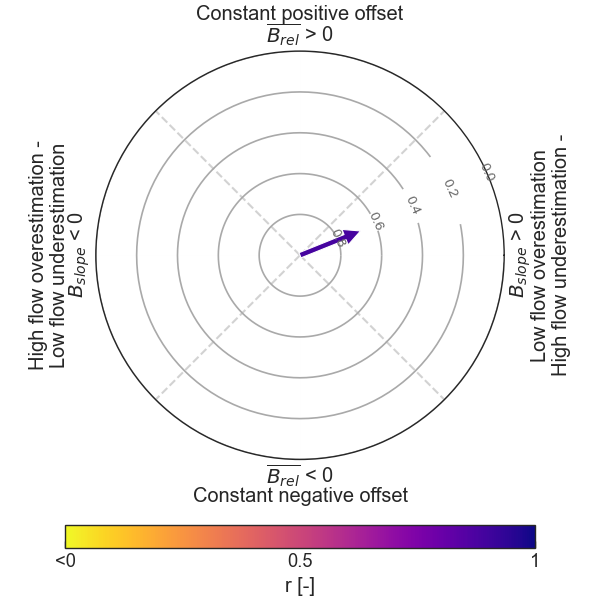
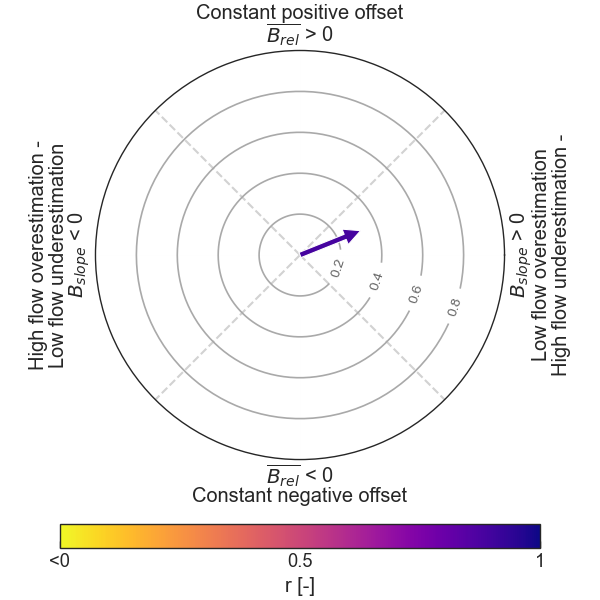
modified docs.

diff --git a/de/de.py b/de/de.py
@@ -3,25 +3,26 @@
 """
 de.de
 ~~~~~~~~~~~
-Diagnosing model performance using an efficiency measure based on flow
+Diagnosing model errors using an efficiency measure based on flow
 duration curve and temporal correlation. The efficiency measure can be
 visualized by diagnostic polar plots which facilitates decomposing potential
 error contributions (dynamic errors vs. constant erros vs. timing errors)
-:2019 by Robin Schwemmle.
+:2021 by Robin Schwemmle.
 :license: GNU GPLv3, see LICENSE for more details.
 """
 
 import numpy as np
-
-# RunTimeWarning will not be displayed (division by zeros or NaN values)
-np.seterr(divide="ignore", invalid="ignore")
 import matplotlib
 from matplotlib import cm
 import matplotlib.pyplot as plt
+import matplotlib.ticker as mticker
 import pandas as pd
 import scipy as sp
 import scipy.integrate as integrate
 import seaborn as sns
+
+# RunTimeWarning will not be displayed (division by zeros or NaN values)
+np.seterr(divide="ignore", invalid="ignore")
 
 # controlling figure aesthetics
 sns.set_style("ticks", {"xtick.major.size": 8, "ytick.major.size": 8})
@@ -349,7 +350,7 @@ def calc_de(obs, sim, sort=True):
     Returns
     ----------
     eff : float
-        non-normalized Diagnostic efficiency
+        Diagnostic efficiency
 
     Notes
     ----------
@@ -538,24 +539,24 @@ def diag_polar_plot(obs, sim, sort=True, l=0.05, extended=False):
         # diagnose the error
         if abs(brel_mean) <= l and exp_err > l and eff > eff_l:
             ax.annotate(
-                "", xytext=(0, 1), xy=(phi, eff), arrowprops=dict(facecolor=rgba_color)
+                "", xytext=(0, 0), xy=(phi, eff), arrowprops=dict(facecolor=rgba_color)
             )
         elif abs(brel_mean) > l and exp_err <= l and eff > eff_l:
             ax.annotate(
-                "", xytext=(0, 1), xy=(phi, eff), arrowprops=dict(facecolor=rgba_color)
+                "", xytext=(0, 0), xy=(phi, eff), arrowprops=dict(facecolor=rgba_color)
             )
         elif abs(brel_mean) > l and exp_err > l and eff > eff_l:
             ax.annotate(
-                "", xytext=(0, 1), xy=(phi, eff), arrowprops=dict(facecolor=rgba_color)
+                "", xytext=(0, 0), xy=(phi, eff), arrowprops=dict(facecolor=rgba_color)
             )
         # FBM
         elif abs(brel_mean) <= l and exp_err <= l and eff > eff_l:
             ax.annotate(
-                "", xytext=(0, 1), xy=(0, eff), arrowprops=dict(facecolor=rgba_color)
+                "", xytext=(0, 0), xy=(0, eff), arrowprops=dict(facecolor=rgba_color)
             )
             ax.annotate(
                 "",
-                xytext=(0, 1),
+                xytext=(0, 0),
                 xy=(np.pi, eff),
                 arrowprops=dict(facecolor=rgba_color),
             )
@@ -576,6 +577,8 @@ def diag_polar_plot(obs, sim, sort=True, l=0.05, extended=False):
             labelbottom=True,
             grid_alpha=0.01,
         )
+        ticks_loc = ax.get_xticks().tolist()
+        ax.xaxis.set_major_locator(mticker.FixedLocator(ticks_loc))
         ax.set_xticklabels(["", "", "", "", "", "", "", ""])
         ax.text(
             -0.14,
@@ -781,6 +784,8 @@ def diag_polar_plot(obs, sim, sort=True, l=0.05, extended=False):
             labelbottom=True,
             grid_alpha=0.01,
         )
+        ticks_loc = ax.get_xticks().tolist()
+        ax.xaxis.set_major_locator(mticker.FixedLocator(ticks_loc))
         ax.set_xticklabels(["", "", "", "", "", "", "", ""])
         ax.text(
             -0.14,
@@ -1102,6 +1107,8 @@ def diag_polar_plot_multi(
             labelbottom=True,
             grid_alpha=0.01,
         )
+        ticks_loc = ax.get_xticks().tolist()
+        ax.xaxis.set_major_locator(mticker.FixedLocator(ticks_loc))
         ax.set_xticklabels(["", "", "", "", "", "", "", ""])
         ax.text(
             -0.14,
@@ -1311,6 +1318,8 @@ def diag_polar_plot_multi(
             labelbottom=True,
             grid_alpha=0.01,
         )
+        ticks_loc = ax.get_xticks().tolist()
+        ax.xaxis.set_major_locator(mticker.FixedLocator(ticks_loc))
         ax.set_xticklabels(["", "", "", "", "", r"0$^{\circ}$ (360$^{\circ}$)", "", ""])
         ax.text(
             -0.14,
@@ -1621,6 +1630,8 @@ def gdiag_polar_plot(eff, comp1, comp2, comp3, l=0.05):  # pragma: no cover
         labelbottom=True,
         grid_alpha=0.01,
     )
+    ticks_loc = ax.get_xticks().tolist()
+    ax.xaxis.set_major_locator(mticker.FixedLocator(ticks_loc))
     ax.set_xticklabels(["", "", "", "", "", "", "", ""])
     ax.text(
         -0.04,
@@ -1845,6 +1856,8 @@ def gdiag_polar_plot_multi(
             labelbottom=True,
             grid_alpha=0.01,
         )
+        ticks_loc = ax.get_xticks().tolist()
+        ax.xaxis.set_major_locator(mticker.FixedLocator(ticks_loc))
         ax.set_xticklabels(["", "", "", "", "", "", "", ""])
         ax.text(
             -0.04,
@@ -1993,6 +2006,8 @@ def gdiag_polar_plot_multi(
             labelbottom=True,
             grid_alpha=0.01,
         )
+        ticks_loc = ax.get_xticks().tolist()
+        ax.xaxis.set_major_locator(mticker.FixedLocator(ticks_loc))
         ax.set_xticklabels(["", "", "", "", "", "", "", ""])
         ax.text(
             -0.04,

diff --git a/de/kge.py b/de/kge.py
@@ -4,22 +4,22 @@
 de.kge
 ~~~~~~~~~~~
 Kling-Gupta efficiency measure. The efficiency measure can be
-visualized in 2D-Plot which facilitates decomposing the metric terms (bias
+visualized in a polar plot which facilitates decomposing the metric terms (bias
 error vs. variability error vs. timing error)
-:2019 by Robin Schwemmle.
+:2021 by Robin Schwemmle.
 :license: GNU GPLv3, see LICENSE for more details.
 """
 
 import numpy as np
-
-# RunTimeWarning will not be displayed (division by zeros or NaN values)
-np.seterr(divide="ignore", invalid="ignore")
 import matplotlib
 from matplotlib import cm
 import matplotlib.pyplot as plt
-import pandas as pd
+import matplotlib.ticker as mticker
 import scipy as sp
 import seaborn as sns
+
+# RunTimeWarning will not be displayed (division by zeros or NaN values)
+np.seterr(divide="ignore", invalid="ignore")
 
 # controlling figure aesthetics
 sns.set_style("ticks", {"xtick.major.size": 8, "ytick.major.size": 8})
@@ -289,7 +289,7 @@ def calc_kge(obs, sim, r="pearson", var="std"):
     Returns
     ----------
     eff : float
-        Kling-Gupta-Efficiency measure
+        Kling-Gupta-Efficiency
 
     Examples
     --------
@@ -661,6 +661,8 @@ def polar_plot(obs, sim, r="pearson", var="std"):
             rotation_mode="anchor",
             transform=ax.transAxes,
         )
+        ticks_loc = ax.get_xticks().tolist()
+        ax.xaxis.set_major_locator(mticker.FixedLocator(ticks_loc))
         ax.set_xticklabels(["", "", "", "", "", "", "", ""])
         # add colorbar for temporal correlation
         cbar = fig.colorbar(
@@ -857,6 +859,8 @@ def polar_plot(obs, sim, r="pearson", var="std"):
             rotation_mode="anchor",
             transform=ax.transAxes,
         )
+        ticks_loc = ax.get_xticks().tolist()
+        ax.xaxis.set_major_locator(mticker.FixedLocator(ticks_loc))
         ax.set_xticklabels(["", "", "", "", "", "", "", ""])
         # add colorbar for temporal correlation
         cbar = fig.colorbar(
@@ -1099,6 +1103,8 @@ def polar_plot_multi(
             rotation_mode="anchor",
             transform=ax.transAxes,
         )
+        ticks_loc = ax.get_xticks().tolist()
+        ax.xaxis.set_major_locator(mticker.FixedLocator(ticks_loc))
         ax.set_xticklabels(["", "", "", "", "", "", "", ""])
         ax.set_rticks([])  # turn default ticks off
         ax.set_rmin(1)
@@ -1256,6 +1262,8 @@ def polar_plot_multi(
             rotation_mode="anchor",
             transform=ax.transAxes,
         )
+        ticks_loc = ax.get_xticks().tolist()
+        ax.xaxis.set_major_locator(mticker.FixedLocator(ticks_loc))
         ax.set_xticklabels(["", "", "", "", "", r"0$^{\circ}$ (360$^{\circ}$)", "", ""])
         ax.set_rticks([])  # turn default ticks off
         ax.set_rmin(1)

diff --git a/de/util.py b/de/util.py
@@ -4,7 +4,7 @@
 de.util
 ~~~~~~~~~~~
 
-:2019 by Robin Schwemmle.
+:2021 by Robin Schwemmle.
 :license: GNU GPLv3, see LICENSE for more details.
 """
 
@@ -448,14 +448,14 @@ def diag_polar_plot_multi_fc(
         elif abs(bm) <= l and exp_err <= l and eff > eff_l:
             ax.annotate(
                 "",
-                xytext=(0, 1),
+                xytext=(0, 0),
                 xy=(0, eff),
                 arrowprops=dict(edgecolor=rgba_color, facecolor="black", lw=3),
                 zorder=2,
             )
             ax.annotate(
                 "",
-                xytext=(0, 1),
+                xytext=(0, 0),
                 xy=(np.pi, eff),
                 arrowprops=dict(edgecolor=rgba_color, facecolor="black", lw=3),
                 zorder=2,

diff --git a/de/nse.py b/de/nse.py
@@ -4,7 +4,7 @@
 de.nse
 ~~~~~~~~~~~
 Nash-Sutcliffe efficiency measure.
-:2019 by Robin Schwemmle.
+:2021 by Robin Schwemmle.
 :license: GNU GPLv3, see LICENSE for more details.
 """
 
@@ -13,7 +13,6 @@ import numpy as np
 
 # RunTimeWarning will not be displayed (division by zeros or NaN values)
 np.seterr(divide="ignore", invalid="ignore")
-
 
 def calc_nse(obs, sim):
     r"""
@@ -30,7 +29,7 @@ def calc_nse(obs, sim):
     Returns
     ----------
     sig : float
-        Nash-Sutcliffe-Efficiency measure
+        Nash-Sutcliffe-Efficiency
 
     Examples
     --------

diff --git a/tests/test_de.py b/tests/test_de.py
@@ -169,7 +169,7 @@ def test_multi_diag_polar_plot():
     brel_mean = np.array([0.1, 0.15, 0.2, 0.1, 0.05, 0.15])
     b_area = np.array([0.15, 0.1, 0.2, 0.1, 0.1, 0.2])
     temp_cor = np.array([0.9, 0.85, 0.8, 0.9, 0.85, 0.9])
-    eff_de = np.array([0.79, 0.76, 0.65, 0.82, 0.81, 0.73])
+    eff_de = np.array([0.21, 0.24, 0.35, 0.18, 0.19, 0.27])
     b_dir = np.array([0.08, 0.05, 0.1, 0.05, 0.05, 0.1])
     phi = np.array([0.58, 0.98, 0.78, 0.78, 0.46, 0.64])
     fig = de.diag_polar_plot_multi(brel_mean, b_area, temp_cor, eff_de, b_dir, phi)

diff --git a/docs/conf.py b/docs/conf.py
@@ -20,7 +20,7 @@ import de
 # -- Project information -----------------------------------------------------
 
 project = 'diag-eff'
-copyright = '2020, Robin Schwemmle'
+copyright = '2021, Robin Schwemmle'
 author = 'Robin Schwemmle'
 
 # The short X.Y version
@@ -49,7 +49,7 @@ extensions = [
     'IPython.sphinxext.ipython_console_highlighting',
     'IPython.sphinxext.ipython_directive',
     'nbsphinx',
-#    'numpydoc',
+    'numpydoc',
 ]
 
 # Add any paths that contain templates here, relative to this directory.

diff --git a/de/signatures.py b/de/signatures.py
@@ -5,7 +5,7 @@ de.signatures
 ~~~~~~~~~~~
 Alternative signatures which can be used for a more specific diagnosis
 (e.g. low flow behaviour)
-:2019 by Robin Schwemmle.
+:2021 by Robin Schwemmle.
 :license: GNU GPLv3, see LICENSE for more details.
 """
 

diff --git a/de/generate_errors.py b/de/generate_errors.py
@@ -7,7 +7,7 @@ Generate three different error types:
 - constant erros
 - dynamic errors
 - timing errors
-:2019 by Robin Schwemmle.
+:2021 by Robin Schwemmle.
 :license: GNU GPLv3, see LICENSE for more details.
 """
 

diff --git a/de/fdc.py b/de/fdc.py
@@ -4,7 +4,7 @@
 de.fdc
 ~~~~~~~~~~~
 Flow duration curve
-:2019 by Robin Schwemmle.
+:2021 by Robin Schwemmle.
 :license: GNU GPLv3, see LICENSE for more details.
 """
 

diff --git a/README.md b/README.md
@@ -29,7 +29,7 @@ The full documentation can be found at: https://diag-eff.readthedocs.io
 This software can be distributed freely under the GPL v3 license. Please read
 the LICENSE for further information.
 
-© 2019, Robin Schwemmle (<robin.schwemmle@hydrology.uni-freiburg.de>)
+© 2021, Robin Schwemmle (<robin.schwemmle@hydrology.uni-freiburg.de>)
 
 ## Description
 

diff --git a/docs/tutorials/tutorials.rst b/docs/tutorials/tutorials.rst
@@ -9,4 +9,4 @@ The tutorials adopt section 3.1 and 3.2 from the paper.
     :caption: Contents:
 
     01_proof_of_concept
-    02_real_case_application
+    02_modelling_example
